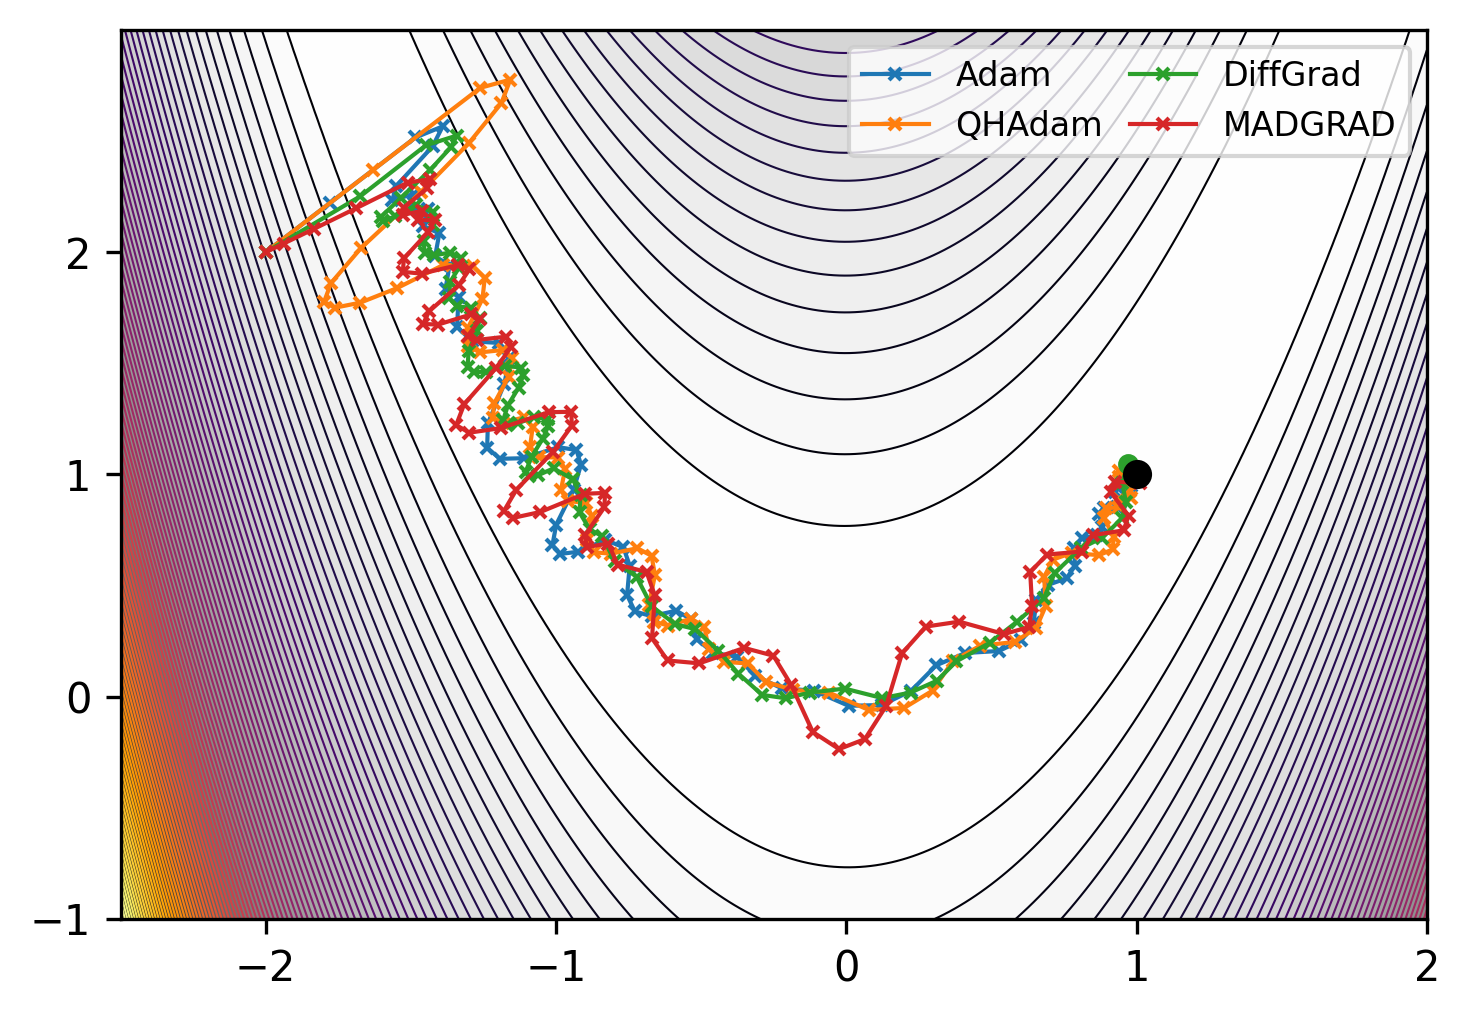
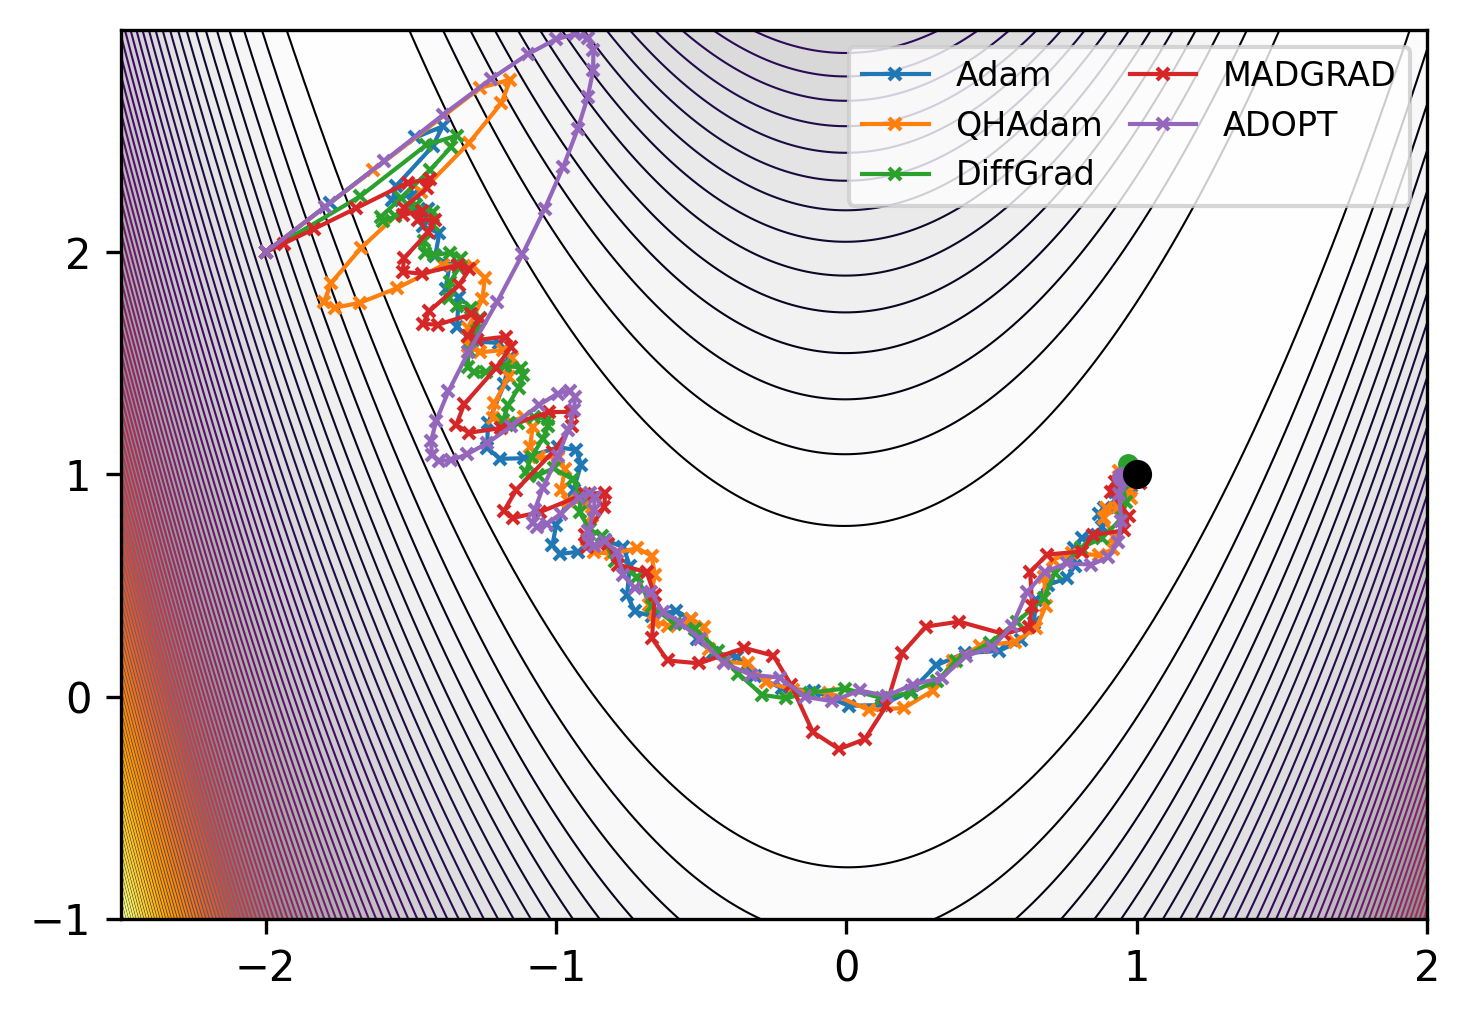
optimizer: add adopt + tests (#25)

diff --git a/mlx_optimizers/adopt.py b/mlx_optimizers/adopt.py
@@ -1,0 +1,70 @@
+from typing import Callable, List, Union
+
+import mlx.core as mx
+from mlx.optimizers import Optimizer
+
+
+class ADOPT(Optimizer):
+    r"""The ADOPT optimizer [1].
+
+    [1]: Taniguchi, Shohei, et al., 2024. ADOPT: Modified Adam Can
+    Converge with Any :math:`\beta_2` with the Optimal Rate. NeurIPS 2024.
+
+    .. math::
+
+        v_0 &= g_0^2,\quad m_1 = g_1 / \max{\sqrt{v_0}, \epsilon} \\
+        
+        \theta_{t} &= \theta_{t-1} - \alpha m_{t-1} \\
+        v_{t} &= \beta_2 v_{t-1} + (1 - \beta_2) g_t^2
+        m_{t+1} &= \beta_1 m_{t} + (1 - \beta_1) (g_{t+1} / \max{\sqrt{v_t}, \epsilon})
+
+    Args:
+    learning_rate (float or callable): The learning rate :math:`\lambda`.
+    betas (Tuple[float, float], optional): The coefficients
+        :math:`(\beta_1, \beta_2)` used for computing running averages of the
+        gradient and its square. Default: ``(0.9, 0.9999)``
+    eps (float, optional): The term :math:`\epsilon` added to the
+        denominator to improve numerical stability. Default: ``1e-6`
+    """
+
+    def __init__(
+        self,
+        learning_rate: Union[float, Callable[[mx.array], mx.array]],
+        betas: List[float] = [0.9, 0.9999],
+        eps: float = 1e-6,
+    ):
+        super().__init__()
+
+        self._maybe_schedule("learning_rate", learning_rate)
+        self.betas = betas
+        self.eps = eps
+
+    def init_single(self, parameter: mx.array, state: dict):
+        """Initialize optimizer state"""
+        state["m"] = mx.zeros_like(parameter)
+        state["v"] = mx.zeros_like(parameter)
+        state["first"] = True
+
+    def apply_single(self, gradient: mx.array, parameter: mx.array, state: dict):
+        """Performs a single optimization step, updating :math:`m` and :math:`v`"""
+        lr = self.learning_rate.astype(gradient.dtype)
+        b1, b2 = self.betas
+        eps = self.eps
+
+        m = state["m"]
+        v = state["v"]
+
+        if state["first"]:  # TODO: eval of self.step not allowed with mx.compile
+            state["first"] = False
+            v = mx.square(gradient)
+            m = gradient / mx.maximum(mx.sqrt(v), eps)
+        else:
+            m = b1 * m + (1 - b1) * gradient / mx.maximum(mx.sqrt(v), eps)
+
+        parameter = parameter - lr * m
+        v = b2 * v + (1 - b2) * mx.square(parameter)
+
+        state["m"] = m
+        state["v"] = v
+
+        return parameter

diff --git a/tests/test_neuralnet.py b/tests/test_neuralnet.py
@@ -58,10 +58,11 @@ def ids(v):
 
 
 optimizers = [
-    (optim.QHAdam, {"learning_rate": 0.01}, 500),
-    (optim.DiffGrad, {"learning_rate": 0.01}, 500),
-    (optim.Muon, {"learning_rate": 0.01}, 500),
-    (optim.MADGRAD, {"learning_rate": 0.01}, 500),
+    (optim.QHAdam, {"learning_rate": 0.01}, 50),
+    (optim.DiffGrad, {"learning_rate": 0.01}, 100),
+    (optim.Muon, {"learning_rate": 0.01}, 100),
+    (optim.MADGRAD, {"learning_rate": 0.01}, 50),
+    (optim.ADOPT, {"learning_rate": 0.01}, 50),
 ]
 
 

diff --git a/mlx_optimizers/__init__.py b/mlx_optimizers/__init__.py
@@ -2,9 +2,10 @@ from .version import VERSION, VERSION_SHORT
 
 __version__ = VERSION
 
+from .adopt import ADOPT
 from .diffgrad import DiffGrad
 from .madgrad import MADGRAD
 from .muon import Muon
 from .qhadam import QHAdam
 
-__all__ = ["DiffGrad", "Muon", "QHAdam", "MADGRAD", "__version__"]
+__all__ = ["DiffGrad", "Muon", "QHAdam", "MADGRAD", "ADOPT", "__version__"]

diff --git a/examples/rosenbrock.py b/examples/rosenbrock.py
@@ -116,6 +116,7 @@ if __name__ == "__main__":
         (optim.QHAdam, 0, 0.5, {}),
         (optim.DiffGrad, 0, 0.5, {}),
         (optim.MADGRAD, 0, 0.5, {}),
+        (optim.ADOPT, 0, 0.25, {}),
     ]
     execute_experiments(
         optimizers, objective_rosenbrock, rosenbrock, plot_rosenbrock, ROSENBROCK_INITIAL

diff --git a/tests/test_basic.py b/tests/test_basic.py
@@ -37,6 +37,7 @@ optimizers = [
     (optim.QHAdam, {"learning_rate": 0.25}, 300),
     (optim.DiffGrad, {"learning_rate": 0.3}, 300),
     (optim.MADGRAD, {"learning_rate": 0.03}, 300),
+    (optim.ADOPT, {"learning_rate": 0.8}, 1200),
 ]
 
 
